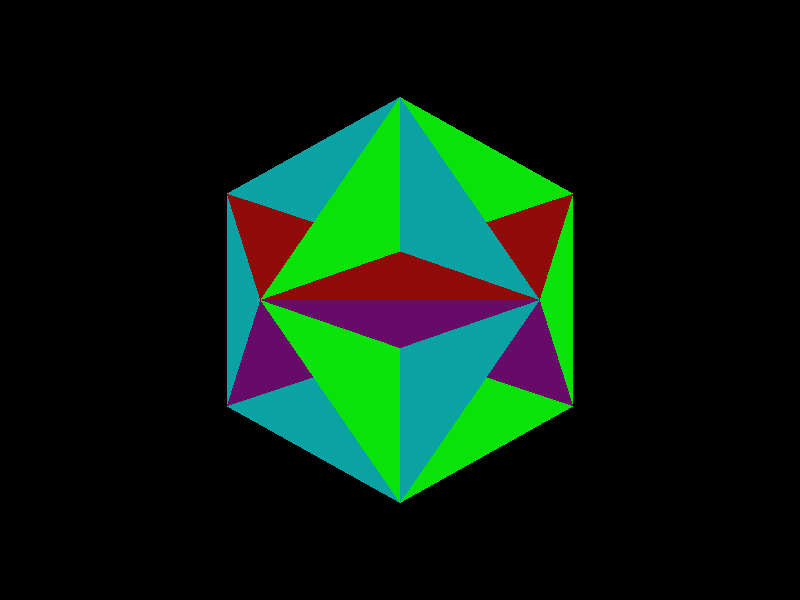
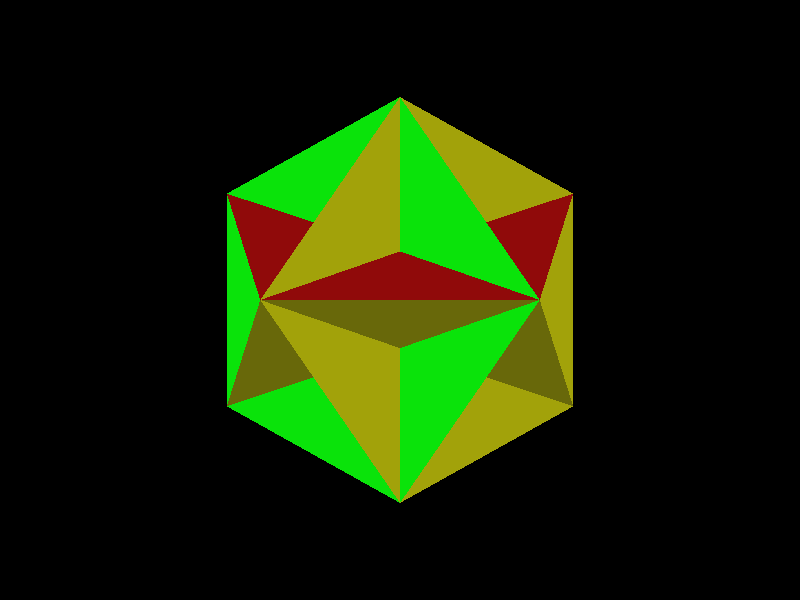
Improve visual clarity of 04.1, 05.1, 05.5 and 13.7 headless test examples

Changed region(s): [[0.2812, 0.15, 0.7188, 0.84]]

diff --git a/ivexamples/Mentor-headless/13.7.Rotor.cpp b/ivexamples/Mentor-headless/13.7.Rotor.cpp
@@ -38,7 +38,7 @@
  * Headless version of Inventor Mentor example 13.7
  * 
  * Original: Rotor - rotating windmill vanes
- * Headless: Renders rotation sequence at different angles
+ * Headless: Renders rotation sequence using windmill data files
  */
 
 #include "headless_utils.h"
@@ -55,6 +55,19 @@
 #include <cstdio>
 #include <cmath>
 
+// Load an Inventor scene graph from a file.  Returns NULL on failure.
+static SoSeparator *readFile(const char *filename)
+{
+    SoInput input;
+    if (!input.openFile(filename)) {
+        fprintf(stderr, "Cannot open file %s\n", filename);
+        return NULL;
+    }
+    SoSeparator *graph = SoDB::readAll(&input);
+    input.closeFile();
+    return graph;
+}
+
 int main(int argc, char **argv)
 {
     // Initialize Coin for headless operation
@@ -68,75 +81,96 @@ int main(int argc, char **argv)
     root->addChild(camera);
     root->addChild(new SoDirectionalLight);
 
-    // Create a simple windmill tower (cylinder)
-    SoMaterial *towerMat = new SoMaterial;
-    towerMat->diffuseColor.setValue(0.5, 0.3, 0.1);
-    root->addChild(towerMat);
-    
-    SoTransform *towerXform = new SoTransform;
-    towerXform->translation.setValue(0, -2, 0);
-    towerXform->scaleFactor.setValue(0.3, 3, 0.3);
-    root->addChild(towerXform);
-    root->addChild(new SoCylinder);
+    // Locate data directory (same search order as other file-reading examples)
+    const char *dataDir = getenv("COIN_DATA_DIR");
+    if (!dataDir) dataDir = getenv("IVEXAMPLES_DATA_DIR");
+    if (!dataDir) dataDir = "../../data";
+
+    char towerPath[512], vanesPath[512];
+    snprintf(towerPath, sizeof(towerPath), "%s/windmillTower.iv", dataDir);
+    snprintf(vanesPath, sizeof(vanesPath), "%s/windmillVanes.iv", dataDir);
+
+    SoSeparator *windmillTower = readFile(towerPath);
+    SoSeparator *windmillVanes = readFile(vanesPath);
 
     // Add a rotor node to spin the vanes
     SoRotor *myRotor = new SoRotor;
-    myRotor->rotation.setValue(SbVec3f(0, 0, 1), 0); // z axis
+    myRotor->rotation.setValue(SbVec3f(0, 0, 1), 0); // rotate around Z axis
     myRotor->speed = 0.2;
-    root->addChild(myRotor);
 
-    // Create simple windmill vanes (4 thin cubes arranged as blades)
-    SoSeparator *vanesSep = new SoSeparator;
-    root->addChild(vanesSep);
-    
-    SoMaterial *vanesMat = new SoMaterial;
-    vanesMat->diffuseColor.setValue(0.8, 0.8, 0.9);
-    vanesSep->addChild(vanesMat);
-    
-    // Horizontal vane
-    SoSeparator *vane1 = new SoSeparator;
-    vanesSep->addChild(vane1);
-    SoTransform *vane1Xform = new SoTransform;
-    vane1Xform->scaleFactor.setValue(2, 0.1, 0.05);
-    vane1->addChild(vane1Xform);
-    vane1->addChild(new SoCube);
-    
-    // Vertical vane
-    SoSeparator *vane2 = new SoSeparator;
-    vanesSep->addChild(vane2);
-    SoTransform *vane2Xform = new SoTransform;
-    vane2Xform->scaleFactor.setValue(0.1, 2, 0.05);
-    vane2->addChild(vane2Xform);
-    vane2->addChild(new SoCube);
+    if (windmillTower && windmillVanes) {
+        // Use the rich windmill geometry from the data files
+        root->addChild(windmillTower);
+        root->addChild(myRotor);
+        root->addChild(windmillVanes);
+    } else {
+        fprintf(stderr, "Windmill data files not found, using fallback geometry\n");
 
-    // Setup camera to view the windmill
-    camera->position.setValue(0, 0, 10);
-    camera->pointAt(SbVec3f(0, 0, 0));
+        // Fallback: brown cylindrical tower
+        SoMaterial *towerMat = new SoMaterial;
+        towerMat->diffuseColor.setValue(0.5f, 0.3f, 0.1f);
+        root->addChild(towerMat);
+
+        SoTransform *towerXf = new SoTransform;
+        towerXf->translation.setValue(0.0f, -1.5f, 0.0f);
+        towerXf->scaleFactor.setValue(0.4f, 4.0f, 0.4f);
+        root->addChild(towerXf);
+        root->addChild(new SoCylinder);
+
+        root->addChild(myRotor);
+
+        // Four blades with visible thickness, arranged as a cross
+        SoSeparator *vanesSep = new SoSeparator;
+        root->addChild(vanesSep);
+
+        SoMaterial *vanesMat = new SoMaterial;
+        vanesMat->diffuseColor.setValue(0.75f, 0.75f, 0.85f);
+        vanesSep->addChild(vanesMat);
+
+        float angles[4] = {0.0f, M_PI/2.0f, M_PI, 3.0f*M_PI/2.0f};
+        for (int b = 0; b < 4; b++) {
+            SoSeparator *bladeSep = new SoSeparator;
+            vanesSep->addChild(bladeSep);
+
+            SoTransform *bladeXf = new SoTransform;
+            // Offset each blade from hub centre along the blade direction
+            float bx = cosf(angles[b]) * 1.25f;
+            float by = sinf(angles[b]) * 1.25f;
+            bladeXf->translation.setValue(bx, by, 0.0f);
+            bladeXf->rotation.setValue(SbVec3f(0, 0, 1), angles[b]);
+            bladeXf->scaleFactor.setValue(0.35f, 2.5f, 0.15f);
+            bladeSep->addChild(bladeXf);
+            bladeSep->addChild(new SoCube);
+        }
+    }
+
+    // Place camera for a 3/4 view: slightly to the side and from above so the
+    // tower and rotating blades are both clearly visible.
+    SbViewportRegion myRegion(DEFAULT_WIDTH, DEFAULT_HEIGHT);
+    camera->viewAll(root, myRegion);
+    rotateCamera(camera, M_PI / 6.0f, M_PI / 8.0f);
 
     const char *baseFilename = (argc > 1) ? argv[1] : "13.7.Rotor";
     char filename[256];
 
-    // Enable the rotor
+    // Enable the rotor and render a 360° rotation sequence in 30° steps
     myRotor->on = TRUE;
-
-    // Render rotation sequence
-    const float ROTATION_INCREMENT = M_PI / 6.0;  // 30 degrees per frame
+    const float ROTATION_INCREMENT = M_PI / 6.0f;  // 30 degrees per frame
     for (int i = 0; i <= 12; i++) {
-        // Manually advance the rotor rotation
         float angle = i * ROTATION_INCREMENT;
         myRotor->rotation.setValue(SbVec3f(0, 0, 1), angle);
-        
-        // Process any pending updates
+
         SoDB::getSensorManager()->processTimerQueue();
         SoDB::getSensorManager()->processDelayQueue(TRUE);
-        
+
         printf("Frame %d: Rotation angle = %.1f degrees\n", i, angle * 180.0 / M_PI);
-        
-        // Render this frame
+
         snprintf(filename, sizeof(filename), "%s_frame%02d.rgb", baseFilename, i);
         renderToFile(root, filename);
     }
 
+    if (windmillTower) windmillTower->unref();
+    if (windmillVanes) windmillVanes->unref();
     root->unref();
     return 0;
 }

diff --git a/ivexamples/Mentor-headless/05.1.FaceSet.cpp b/ivexamples/Mentor-headless/05.1.FaceSet.cpp
@@ -53,30 +53,33 @@
 #include <cmath>
 #include <cstdio>
 
-// Eight polygons. The first four are triangles, the second four are quadrilaterals
+// Eight polygons. The first four are triangles, the second four are quadrilaterals.
+// Vertex Y coordinates are scaled and centred at the origin (y = -7.5 to +7.5)
+// so that rotateCamera() orbits correctly and the obelisk fills the views
+// with a proportional 2:1 height-to-base ratio.
 static const float vertices[28][3] =
 {
-   { 0, 30, 0}, {-2,27, 2}, { 2,27, 2},            //front tri
-   { 0, 30, 0}, {-2,27,-2}, {-2,27, 2},            //left  tri
-   { 0, 30, 0}, { 2,27,-2}, {-2,27,-2},            //rear  tri
-   { 0, 30, 0}, { 2,27, 2}, { 2,27,-2},            //right tri
-   {-2, 27, 2}, {-4,0, 4}, { 4,0, 4}, { 2,27, 2},  //front quad
-   {-2, 27,-2}, {-4,0,-4}, {-4,0, 4}, {-2,27, 2},  //left  quad
-   { 2, 27,-2}, { 4,0,-4}, {-4,0,-4}, {-2,27,-2},  //rear  quad
-   { 2, 27, 2}, { 4,0, 4}, { 4,0,-4}, { 2,27,-2}   //right quad
+   { 0,  7.5f, 0}, {-2, 6, 2}, { 2, 6, 2},            //front tri
+   { 0,  7.5f, 0}, {-2, 6,-2}, {-2, 6, 2},            //left  tri
+   { 0,  7.5f, 0}, { 2, 6,-2}, {-2, 6,-2},            //rear  tri
+   { 0,  7.5f, 0}, { 2, 6, 2}, { 2, 6,-2},            //right tri
+   {-2,  6, 2}, {-4,-7.5f, 4}, { 4,-7.5f, 4}, { 2, 6, 2},  //front quad
+   {-2,  6,-2}, {-4,-7.5f,-4}, {-4,-7.5f, 4}, {-2, 6, 2},  //left  quad
+   { 2,  6,-2}, { 4,-7.5f,-4}, {-4,-7.5f,-4}, {-2, 6,-2},  //rear  quad
+   { 2,  6, 2}, { 4,-7.5f, 4}, { 4,-7.5f,-4}, { 2, 6,-2}   //right quad
 };
 
 // Number of vertices in each polygon
 static int32_t numvertices[8] = {3, 3, 3, 3, 4, 4, 4, 4};
 
-// Normals for each polygon
+// Normals for each polygon (recalculated for the scaled vertex positions)
 static const float norms[8][3] =
 { 
-   {0, .555,  .832}, {-.832, .555, 0}, //front, left tris
-   {0, .555, -.832}, { .832, .555, 0}, //rear, right tris
+   {0, .8f,  .6f}, {-.6f, .8f, 0}, //front, left tris
+   {0, .8f, -.6f}, { .6f, .8f, 0}, //rear, right tris
    
-   {0, .0739,  .9973}, {-.9972, .0739, 0},//front, left quads
-   {0, .0739, -.9973}, { .9972, .0739, 0},//rear, right quads
+   {0, .1466f,  .9892f}, {-.9892f, .1466f, 0},//front, left quads
+   {0, .1466f, -.9892f}, { .9892f, .1466f, 0},//rear, right quads
 };
 
 SoSeparator *makeObeliskFaceSet()
@@ -93,9 +96,9 @@ SoSeparator *makeObeliskFaceSet()
     myNormalBinding->value = SoNormalBinding::PER_FACE;
     obelisk->addChild(myNormalBinding);
 
-    // Define material for obelisk
+    // Define material for obelisk (warm sandstone tone for good contrast)
     SoMaterial *myMaterial = new SoMaterial;
-    myMaterial->diffuseColor.setValue(.4, .4, .4);
+    myMaterial->diffuseColor.setValue(.75f, .60f, .35f);
     obelisk->addChild(myMaterial);
 
     // Define coordinates for vertices
@@ -120,10 +123,16 @@ int main(int argc, char **argv)
     SoSeparator *root = new SoSeparator;
     root->ref();
 
-    // Add camera and light
+    // Add camera and two lights (key + fill) so no face is completely black
     SoPerspectiveCamera *camera = new SoPerspectiveCamera;
     root->addChild(camera);
-    root->addChild(new SoDirectionalLight);
+    SoDirectionalLight *keyLight = new SoDirectionalLight;
+    keyLight->direction.setValue(-1, -1, -1);
+    root->addChild(keyLight);
+    SoDirectionalLight *fillLight = new SoDirectionalLight;
+    fillLight->direction.setValue(1, 0.5, 1);
+    fillLight->intensity = 0.4f;
+    root->addChild(fillLight);
 
     root->addChild(makeObeliskFaceSet());
 
@@ -133,18 +142,21 @@ int main(int argc, char **argv)
     const char *baseFilename = (argc > 1) ? argv[1] : "05.1.FaceSet";
     char filename[256];
 
-    // Front view
+    // Front view – slight elevation so the apex is visible
+    camera->viewAll(root, SbViewportRegion(DEFAULT_WIDTH, DEFAULT_HEIGHT));
+    rotateCamera(camera, 0, M_PI / 8);
     snprintf(filename, sizeof(filename), "%s_front.rgb", baseFilename);
     renderToFile(root, filename);
 
-    // Side view
-    rotateCamera(camera, M_PI / 2, 0);
+    // Side view – 3/4 angle from the left with elevation
+    camera->viewAll(root, SbViewportRegion(DEFAULT_WIDTH, DEFAULT_HEIGHT));
+    rotateCamera(camera, M_PI / 3, M_PI / 8);
     snprintf(filename, sizeof(filename), "%s_side.rgb", baseFilename);
     renderToFile(root, filename);
 
-    // Angled view
+    // Angled view – isometric-like vantage from above-left
     camera->viewAll(root, SbViewportRegion(DEFAULT_WIDTH, DEFAULT_HEIGHT));
-    rotateCamera(camera, M_PI / 4, M_PI / 6);
+    rotateCamera(camera, M_PI / 4, M_PI / 5);
     snprintf(filename, sizeof(filename), "%s_angle.rgb", baseFilename);
     renderToFile(root, filename);
 

diff --git a/ivexamples/Mentor-headless/04.1.Cameras.cpp b/ivexamples/Mentor-headless/04.1.Cameras.cpp
@@ -42,9 +42,6 @@
  */
 
 #include "headless_utils.h"
-#include <Inventor/SbLinear.h>
-#include <Inventor/SoDB.h>
-#include <Inventor/SoInput.h>
 #include <Inventor/nodes/SoDirectionalLight.h>
 #include <Inventor/nodes/SoMaterial.h>
 #include <Inventor/nodes/SoOrthographicCamera.h>
@@ -67,44 +64,38 @@ int main(int argc, char **argv)
     // Create a light
     root->addChild(new SoDirectionalLight);
 
-    // Create a simple scene (replace file reading with built-in geometry)
-    // Create a bench-like structure
-    SoSeparator *sceneContent = new SoSeparator;
-    
-    SoMaterial *myMaterial = new SoMaterial;
-    myMaterial->diffuseColor.setValue(0.8, 0.23, 0.03);
-    sceneContent->addChild(myMaterial);
-    
-    // Seat
-    SoTransform *seatTransform = new SoTransform;
-    seatTransform->translation.setValue(0, 1, 0);
-    seatTransform->scaleFactor.setValue(3, 0.2, 1);
-    sceneContent->addChild(seatTransform);
-    sceneContent->addChild(new SoCube);
-    
-    // Back
-    SoSeparator *backSep = new SoSeparator;
-    SoTransform *backTransform = new SoTransform;
-    backTransform->translation.setValue(0, 2, -0.4);
-    backTransform->scaleFactor.setValue(3, 1.5, 0.2);
-    backSep->addChild(backTransform);
-    backSep->addChild(new SoCube);
-    sceneContent->addChild(backSep);
-    
-    // Legs
-    for (int i = 0; i < 4; i++) {
-        SoSeparator *legSep = new SoSeparator;
-        SoTransform *legTransform = new SoTransform;
-        float x = (i < 2) ? -1.2 : 1.2;
-        float z = (i % 2 == 0) ? -0.4 : 0.4;
-        legTransform->translation.setValue(x, 0.0, z);
-        legTransform->scaleFactor.setValue(0.2, 1, 0.2);
-        legSep->addChild(legTransform);
-        legSep->addChild(new SoCube);
-        sceneContent->addChild(legSep);
-    }
-    
-    root->addChild(sceneContent);
+    // Create a scene with three distinct 3D shapes at different depths.
+    // Depth variation makes the perspective vs. orthographic difference obvious.
+
+    // Red cone – left, slightly in front
+    SoSeparator *coneSep = new SoSeparator;
+    SoMaterial *coneMat = new SoMaterial;
+    coneMat->diffuseColor.setValue(0.85f, 0.15f, 0.10f);
+    coneSep->addChild(coneMat);
+    SoTransform *coneXf = new SoTransform;
+    coneXf->translation.setValue(-2.5f, 0.0f, 1.0f);
+    coneSep->addChild(coneXf);
+    coneSep->addChild(new SoCone);
+    root->addChild(coneSep);
+
+    // Green sphere – centre
+    SoSeparator *sphereSep = new SoSeparator;
+    SoMaterial *sphereMat = new SoMaterial;
+    sphereMat->diffuseColor.setValue(0.15f, 0.70f, 0.20f);
+    sphereSep->addChild(sphereMat);
+    sphereSep->addChild(new SoSphere);
+    root->addChild(sphereSep);
+
+    // Blue cube – right, slightly behind
+    SoSeparator *cubeSep = new SoSeparator;
+    SoMaterial *cubeMat = new SoMaterial;
+    cubeMat->diffuseColor.setValue(0.15f, 0.30f, 0.85f);
+    cubeSep->addChild(cubeMat);
+    SoTransform *cubeXf = new SoTransform;
+    cubeXf->translation.setValue(2.5f, 0.0f, -1.0f);
+    cubeSep->addChild(cubeXf);
+    cubeSep->addChild(new SoCube);
+    root->addChild(cubeSep);
 
     // Create three cameras
     SoOrthographicCamera *orthoViewAll = new SoOrthographicCamera;

diff --git a/ivexamples/Mentor-headless/05.5.Binding.cpp b/ivexamples/Mentor-headless/05.5.Binding.cpp
@@ -131,9 +131,10 @@ SoSeparator *makeStellatedDodecahedron(int bindingType)
             }
         }
     }
-    // For PER_FACE_INDEXED, set face material indices
+    // For PER_FACE_INDEXED, use a non-sequential mapping so the result
+    // is visually distinct from the PER_FACE case (reversed order here).
     else if (bindingType == 2) {
-        int32_t faceIndices[12] = {0,1,2,3,4,5,6,7,8,9,10,11};
+        int32_t faceIndices[12] = {11,10,9,8,7,6,5,4,3,2,1,0};
         myFaceSet->materialIndex.setValues(0, 12, faceIndices);
     }
     
